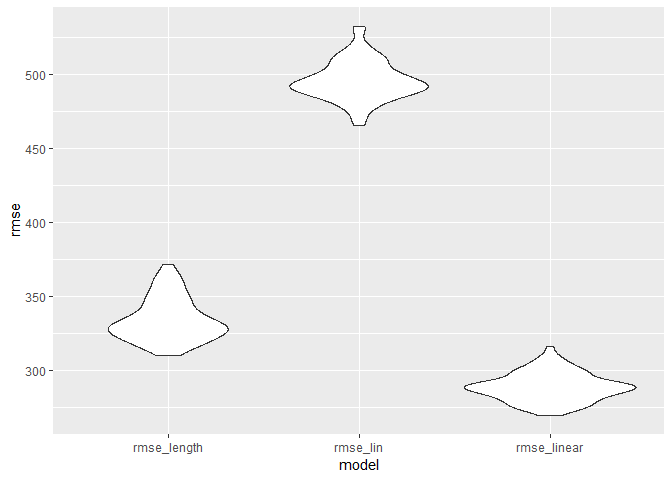
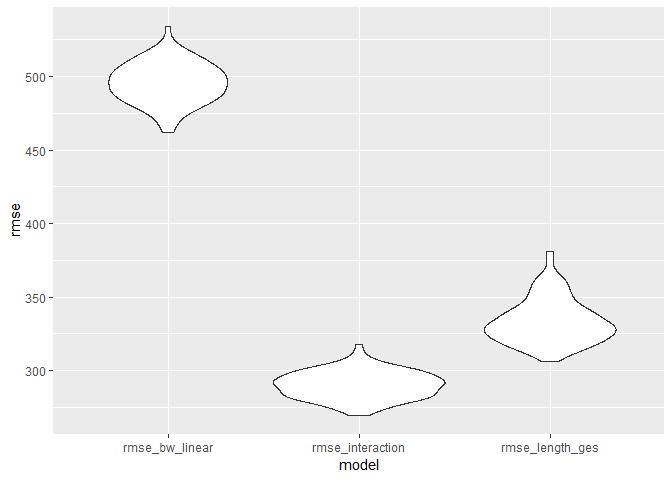
Renamed the 3 violin plots with better names. Still considering more appropriate names.

diff --git a/P8105_HW6_BJL2150.md b/P8105_HW6_BJL2150.md
@@ -489,13 +489,13 @@ validation_df = validation_df %>%
   mutate(bw_linear_one = map(train, ~lm(bwt ~ momage + mrace + smoken, data = .x)), 
          length_ges_linear = map(train, ~lm(bwt ~ blength + gaweeks, data = .x)), 
          linear_interaction = map(train, ~lm(bwt ~ bhead + blength + babysex + bhead*blength*babysex, data = .x))) %>% 
-  mutate(rmse_lin    = map2_dbl(bw_linear_one, test, ~rmse(model = .x, data = .y)),
-         rmse_length = map2_dbl(length_ges_linear, test, ~rmse(model = .x, data = .y)),
-         rmse_linear = map2_dbl(linear_interaction, test, ~rmse(model = .x, data = .y))) 
+  mutate(rmse_bw_linear = map2_dbl(bw_linear_one, test, ~rmse(model = .x, data = .y)),
+         rmse_length_ges = map2_dbl(length_ges_linear, test, ~rmse(model = .x, data = .y)),
+         rmse_interaction = map2_dbl(linear_interaction, test, ~rmse(model = .x, data = .y))) 
 
 validation_df %>%
   select(.id, starts_with("rmse")) %>%
-  gather(key = model, value = rmse, rmse_lin:rmse_linear) %>%
+  gather(key = model, value = rmse, rmse_bw_linear:rmse_interaction) %>%
   ggplot(aes(x = model, y = rmse)) + geom_violin()
 ```
 
